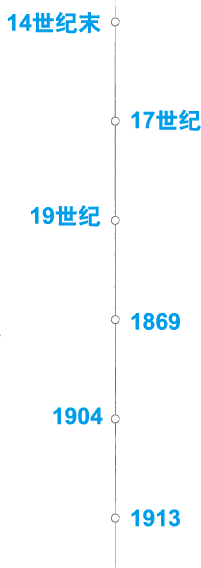
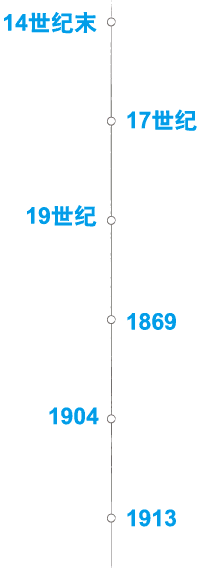
before scrolling to top

Changed region(s): [[0.0, 0.0, 1.0, 1.0]]

diff --git a/css/style.css b/css/style.css
@@ -58,7 +58,7 @@ html, body {
 }
 
 .delay1 {
-	animation-delay: 0.5s;
+	animation-delay: 0.9s;
 }
 
 .delay2 {
@@ -152,5 +152,105 @@ html, body {
     background-size: 100% auto;
 }
 
+.clear {
+	clear: both;
+}
+
+.timeline {
+	width: 90vw;
+	margin: 50px auto 0;
+}
+
+.timeline-1, .timeline-2, .timeline-3 {
+	float: left;
+	width:30vw;
+} 
+
+.m8 {
+	margin-bottom: 8vw !important;
+}
+
 .hidden-load {visibility: hidden;}
 .showing-load {visibility: visible !important;}
+
+
+@-webkit-keyframes slideInLeft2 {
+  from {
+    -webkit-transform: translate3d(-200%, 0, 0);
+    transform: translate3d(-200%, 0, 0);
+    visibility: visible;
+  }
+
+  to {
+    -webkit-transform: translate3d(0, 0, 0);
+    transform: translate3d(0, 0, 0);
+  }
+}
+
+@keyframes slideInLeft2 {
+  from {
+    -webkit-transform: translate3d(-200%, 0, 0);
+    transform: translate3d(-200%, 0, 0);
+    visibility: visible;
+  }
+
+  to {
+    -webkit-transform: translate3d(0, 0, 0);
+    transform: translate3d(0, 0, 0);
+  }
+}
+
+.slideInLeft2 {
+  -webkit-animation-name: slideInLeft2;
+  animation-name: slideInLeft2;
+  animation-duration: 0.2s;
+}
+
+@-webkit-keyframes slideInRight2 {
+  from {
+    -webkit-transform: translate3d(200%, 0, 0);
+    transform: translate3d(200%, 0, 0);
+    visibility: visible;
+  }
+
+  to {
+    -webkit-transform: translate3d(0, 0, 0);
+    transform: translate3d(0, 0, 0);
+  }
+}
+
+@keyframes slideInRight2 {
+  from {
+    -webkit-transform: translate3d(200%, 0, 0);
+    transform: translate3d(200%, 0, 0);
+    visibility: visible;
+  }
+
+  to {
+    -webkit-transform: translate3d(0, 0, 0);
+    transform: translate3d(0, 0, 0);
+  }
+}
+
+.slideInRight2 {
+  -webkit-animation-name: slideInRight2;
+  animation-name: slideInRight2;
+  animation-duration: 0.2s;
+}
+
+
+
+@media only screen and (max-width: 520px) {
+
+.p6-1 {
+    background: url('../img/06-1-1.png') no-repeat top center;
+}
+
+.p4-1 {
+    background: url('../img/03-2-1.png') no-repeat top center;
+}
+
+.p5-1 {
+    background: url('../img/05-1-1.png') no-repeat top center;
+}
+}

diff --git a/index.html b/index.html
@@ -57,7 +57,23 @@ $('img').on('load', function() {
         <img src="img/02-b-5.png" class="swiper-lazy preload m30 animated slideInRight hidden-load"/>
         <img src="img/02-b-6.png" class="swiper-lazy preload m30 animated fadeIn animated hidden-load"/>
         <img src="img/02-b-7.png" class="swiper-lazy preload m30 animated slideInRight hidden-load"/>
-        <img data-src="img/02-c.png" class="swiper-lazy preload zoomIn m80 animated hidden-load"/>
+        <div class="timeline">
+        	<div class="timeline-1">
+            	<img src="img/02-c-2.png" class="preload animated slideInLeft2 hidden-load delay2 m8"><br />
+                <img src="img/02-c-4.png" class="preload animated slideInLeft2 hidden-load delay4 m8"><br />
+                <img src="img/02-c-6.png" class="preload animated slideInLeft2 hidden-load delay6 m8">
+        	</div>
+            <div class="timeline-2">
+            	<img src="img/02-c-1.png" class="preload animated zoomIn hidden-load m8">
+        	</div>
+            <div class="timeline-3">
+            	<img src="img/02-c-3.png" class="preload animated slideInRight2 hidden-load delay3 m8"><br />
+                <img src="img/02-c-5.png" class="preload animated slideInRight2 hidden-load delay5 m8"><br />
+                <img src="img/02-c-7.png" class="preload animated slideInRight2 hidden-load delay7 m8">
+        	</div>
+        </div>
+        <div class="clear">
+        </div>
         <img data-src="img/02-d-1.png" class="swiper-lazy preload m80 tada animated hidden-load"/>
         <img data-src="img/02-d-2.png" class="swiper-lazy preload m30 animated slideInRight hidden-load"/>
         <img data-src="img/02-d-3.png" class="swiper-lazy preload m80 tada animated hidden-load"/>
